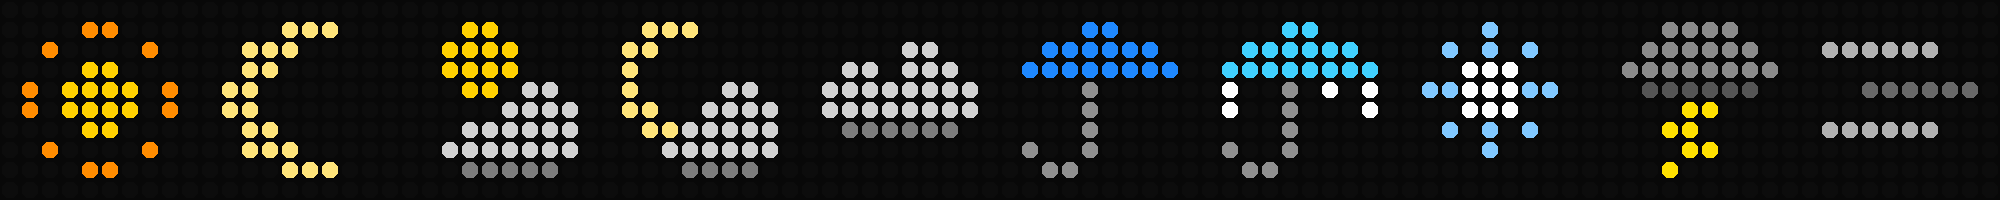
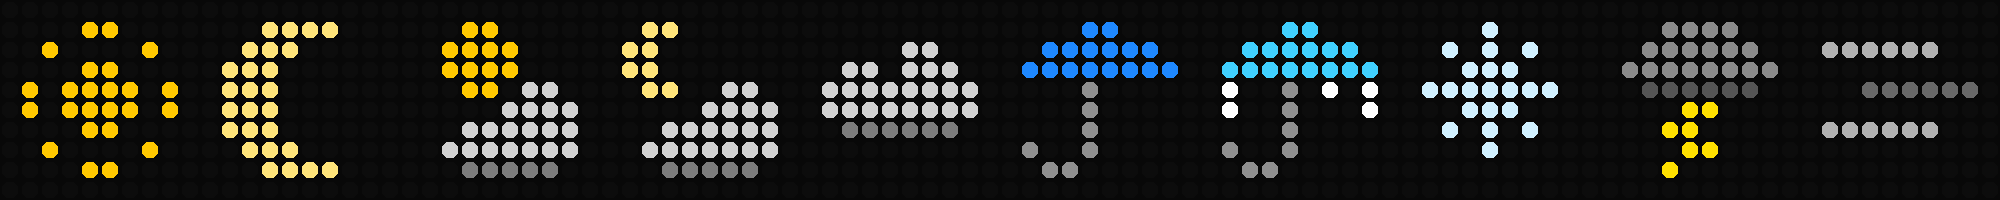
Board: single-color sun and snowflake, new moon shapes
The sun and snowflake go back to one color each. The clear moon is a
thicker crescent (3px at the middle) instead of a thin bracket. The
partly cloudy night icon has a smaller 2px crescent clear of the cloud,
so the two no longer run together.

Claude-Session: https://claude.ai/code/session_01GmVBM93c7aqLNDoZ2PwPgy

diff --git a/server/board/icons.js b/server/board/icons.js
@@ -10,8 +10,7 @@
 // over a darker underside, and lighter than the row's gray text; the storm
 // cloud is darker so it doesn't read as plain cloudy.
 const PALETTE = {
-  Y: '#ffd000', // sun
-  O: '#ff8c00', // sun rays
+  Y: '#ffc800', // sun
   M: '#ffe47a', // moon
   C: '#d0d0d0', // cloud
   D: '#7c7c7c', // cloud underside
@@ -20,8 +19,8 @@ const PALETTE = {
   B: '#1e88ff', // umbrella canopy
   H: '#8f8f8f', // umbrella handle
   I: '#40d0ff', // icy canopy
-  W: '#ffffff', // icicles, snowflake center
-  S: '#80c8ff', // snowflake arms
+  W: '#ffffff', // icicles
+  S: '#d0f0ff', // snowflake
   F: '#b0b0b0', // fog
   E: '#686868', // fog, far line
   L: '#ffe000', // lightning
@@ -29,24 +28,24 @@ const PALETTE = {
 
 const ICONS = {
   sun: [
-    '...OO...',
-    '.O....O.',
     '...YY...',
-    'O.YYYY.O',
-    'O.YYYY.O',
+    '.Y....Y.',
     '...YY...',
-    '.O....O.',
-    '...OO...',
+    'Y.YYYY.Y',
+    'Y.YYYY.Y',
+    '...YY...',
+    '.Y....Y.',
+    '...YY...',
   ],
   moon: [
-    '...MMM..',
+    '..MMMM..',
     '.MMM....',
-    '.MM.....',
-    'MM......',
-    'MM......',
-    '.MM.....',
+    'MMM.....',
+    'MMM.....',
+    'MMM.....',
+    'MMM.....',
     '.MMM....',
-    '...MMM..',
+    '..MMMM..',
   ],
   pcloudy_day: [
     '..YY....',
@@ -59,14 +58,14 @@ const ICONS = {
     '..DDDDD.',
   ],
   pcloudy_night: [
-    '.MMM....',
+    '.MM.....',
     'MM......',
-    'M.......',
-    'M....CC.',
-    'MM..CCCC',
-    '.MMCCCCC',
+    'MM......',
+    '.MM..CC.',
+    '....CCCC',
     '..CCCCCC',
-    '...DDDD.',
+    '.CCCCCCC',
+    '..DDDDD.',
   ],
   cloudy: [
     '........',
@@ -101,9 +100,9 @@ const ICONS = {
   snow: [
     '...S....',
     '.S.S.S..',
-    '..WWW...',
-    'SSWWWSS.',
-    '..WWW...',
+    '..SSS...',
+    'SSSSSSS.',
+    '..SSS...',
     '.S.S.S..',
     '...S....',
     '........',

diff --git a/server/board/draw.test.js b/server/board/draw.test.js
@@ -440,7 +440,7 @@ test('weather screen: radar screen with no frames shows big temp, details, and r
   const rad = (w, extra = {}) => ({ on: false, frames: [], ft: [], timeBox: [40, 0, 24, 22], split: false, wx: w, ...extra });
   const f = draw.render({ now, bright: 100, warn: null, radar: rad(wx) }, { screen: 'weather', now, frames: {} });
   assert.ok(count(f, draw.C.label, 1, 4, 22, 13) > 40, 'big temperature + degree ring');
-  assert.equal(hex(f.get(56, 2)), '#ffd000', 'icon top right');
+  assert.equal(hex(f.get(56, 2)), '#ffc800', 'icon top right');
   assert.ok(count(f, draw.C.wxText, 29, 11, 63, 15) > 15, 'dim condition word');
   for (let x = 0; x < 64; x++) assert.equal(hex(f.get(x, 18)), draw.C.divider, `divider col ${x}`);
   assert.ok(count(f, draw.C.grey, 0, 20, 40, 24) > 15, 'FEELS');

diff --git a/firmware/boardlib/assets.py b/firmware/boardlib/assets.py
@@ -30,8 +30,7 @@ FONT_PUA = {
 }
 
 ICON_PALETTE = {
-    89: (255, 208, 0),  # Y
-    79: (255, 140, 0),  # O
+    89: (255, 200, 0),  # Y
     77: (255, 228, 122),  # M
     67: (208, 208, 208),  # C
     68: (124, 124, 124),  # D
@@ -41,21 +40,21 @@ ICON_PALETTE = {
     72: (143, 143, 143),  # H
     73: (64, 208, 255),  # I
     87: (255, 255, 255),  # W
-    83: (128, 200, 255),  # S
+    83: (208, 240, 255),  # S
     70: (176, 176, 176),  # F
     69: (104, 104, 104),  # E
     76: (255, 224, 0),  # L
 }
 
 ICONS = {
-    'sun': b'...OO....O....O....YY...O.YYYY.OO.YYYY.O...YY....O....O....OO...',
-    'moon': b'...MMM...MMM.....MM.....MM......MM.......MM......MMM.......MMM..',
+    'sun': b'...YY....Y....Y....YY...Y.YYYY.YY.YYYY.Y...YY....Y....Y....YY...',
+    'moon': b'..MMMM...MMM....MMM.....MMM.....MMM.....MMM......MMM......MMMM..',
     'pcloudy_day': b'..YY.....YYYY....YYYY.....YY.CC.....CCCC..CCCCCC.CCCCCCC..DDDDD.',
-    'pcloudy_night': b'.MMM....MM......M.......M....CC.MM..CCCC.MMCCCCC..CCCCCC...DDDD.',
+    'pcloudy_night': b'.MM.....MM......MM.......MM..CC.....CCCC..CCCCCC.CCCCCCC..DDDDD.',
     'cloudy': b'............CC...CC.CCC.CCCCCCCCCCCCCCCC.DDDDDD.................',
     'rain': b'...BB....BBBBBB.BBBBBBBB...H.......H.......H....H..H.....HH.....',
     'ice': b'...II....IIIIII.IIIIIIIIW..H.W.WW..H...W...H....H..H.....HH.....',
-    'snow': b'...S.....S.S.S....WWW...SSWWWSS...WWW....S.S.S.....S............',
+    'snow': b'...S.....S.S.S....SSS...SSSSSSS...SSS....S.S.S.....S............',
     'storm': b'..GGGG...GGGGGG.GGGGGGGG.KKKKKK....LL.....LL.......LL.....L.....',
     'fog': b'........FFFFFF............EEEEEE........FFFFFF..................',
 }
